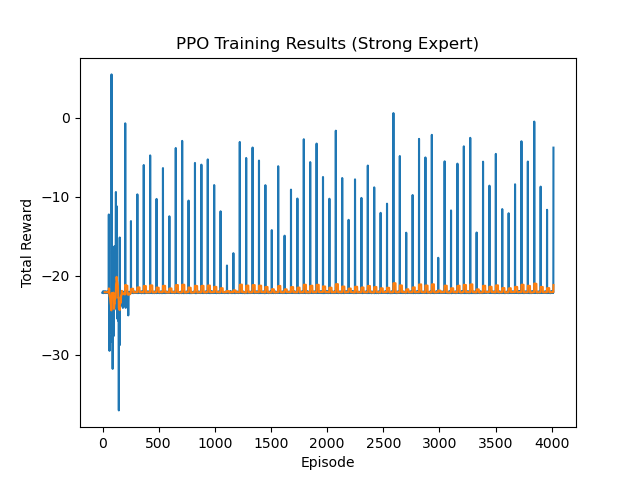
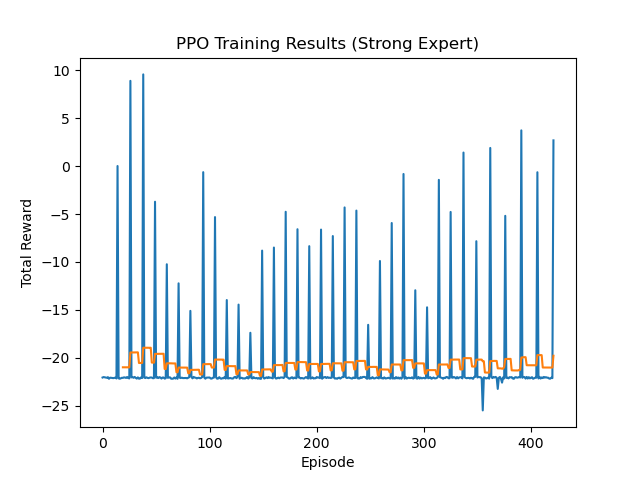
new ppo

diff --git a/ppo_praveen_style.py b/ppo_praveen_style.py
@@ -1,0 +1,253 @@
+# ppo_praveen_style.py
+
+import numpy as np
+import torch
+import torch.nn as nn
+import torch.nn.functional as F
+from torch.distributions import Beta
+from torch.utils.data.sampler import BatchSampler, SubsetRandomSampler
+
+
+class CarRacingNet(nn.Module):
+    """
+    Actor-Critic network similar in spirit to praveen's Net, but
+    adapted for 4x96x96 image input (CarRacing-v2).
+    - Input: (B, C=4, H=96, W=96)
+    - Output: (alpha, beta) for each of 3 actions + scalar value.
+    """
+
+    def __init__(self, action_dim: int = 3):
+        super().__init__()
+
+        # Simple CNN encoder – you can make this deeper if needed
+        self.conv = nn.Sequential(
+            nn.Conv2d(4, 32, kernel_size=8, stride=4),  # (32, 23, 23)
+            nn.ReLU(),
+            nn.Conv2d(32, 64, kernel_size=4, stride=2),  # (64, 10, 10)
+            nn.ReLU(),
+            nn.Conv2d(64, 64, kernel_size=3, stride=1),  # (64, 8, 8)
+            nn.ReLU(),
+        )
+
+        conv_out_dim = 64 * 8 * 8
+
+        self.fc_shared = nn.Sequential(
+            nn.Linear(conv_out_dim, 128),
+            nn.ReLU(),
+        )
+
+        # Value head
+        self.v_head = nn.Sequential(
+            nn.Linear(128, 100),
+            nn.ReLU(),
+            nn.Linear(100, 1),
+        )
+
+        # Policy head → alpha, beta for each action dim
+        self.alpha_head = nn.Sequential(
+            nn.Linear(128, 100),
+            nn.ReLU(),
+            nn.Linear(100, action_dim),
+        )
+        self.beta_head = nn.Sequential(
+            nn.Linear(128, 100),
+            nn.ReLU(),
+            nn.Linear(100, action_dim),
+        )
+
+        # Optional: initialize weights similar to their style
+        for m in self.modules():
+            if isinstance(m, nn.Linear):
+                nn.init.kaiming_normal_(m.weight, nonlinearity="relu")
+                nn.init.constant_(m.bias, 0.1)
+
+    def forward(self, obs):
+        """
+        obs: (B, 4, 96, 96) float tensor in [0,1] or similar.
+        Returns: (alpha, beta), v
+        """
+        x = self.conv(obs)
+        x = x.view(x.size(0), -1)
+        x = self.fc_shared(x)
+
+        v = self.v_head(x)
+
+        alpha = self.alpha_head(x) + 1e-4  # ensure > 0
+        beta = self.beta_head(x) + 1e-4
+
+        return (alpha, beta), v
+
+
+class PPOPraveenStyle:
+    """
+    PPO agent implementing praveen's algorithm:
+    - Beta policy in [0,1]^3
+    - Clipped surrogate objective
+    - Shared actor-critic network
+
+    NOTE:
+    - The buffer stores RAW Beta samples a_beta in [0,1]^3
+      (closer to the original implementation).
+    - We convert to env actions (steer, gas, brake) only when stepping the env.
+    """
+
+    def __init__(
+        self,
+        net: CarRacingNet,
+        device,
+        gamma=0.99,
+        clip_param=0.2,
+        ppo_epoch=4,
+        buffer_capacity=2048,
+        batch_size=256,
+        lr=1e-3,
+    ):
+        self.net = net.to(device)
+        self.device = device
+        self.gamma = gamma
+        self.clip_param = clip_param
+        self.ppo_epoch = ppo_epoch
+        self.buffer_capacity = buffer_capacity
+        self.batch_size = batch_size
+
+        # Transition buffer: (s, a_beta, logp_old, r, s_)
+        self.counter = 0
+        self.buffer = {
+            "s": np.zeros((buffer_capacity, 4, 96, 96), dtype=np.float32),
+            "a": np.zeros((buffer_capacity, 3), dtype=np.float32),   # raw Beta samples
+            "logp": np.zeros((buffer_capacity, 1), dtype=np.float32),
+            "r": np.zeros((buffer_capacity, 1), dtype=np.float32),
+            "s_": np.zeros((buffer_capacity, 4, 96, 96), dtype=np.float32),
+        }
+
+        self.optimizer = torch.optim.Adam(self.net.parameters(), lr=lr)
+        self.training_step = 0
+
+    @torch.no_grad()
+    def select_action(self, obs_np):
+        """
+        obs_np: numpy array (4,96,96) or LazyFrames
+        Returns:
+          env_action: np.array (3,) in CarRacing space (steer, gas, brake)
+          logp: float (log-prob of the Beta-sampled action)
+          a_beta: np.array (3,) raw Beta action in [0,1]^3
+        """
+        # Allow LazyFrames, etc.
+        if not isinstance(obs_np, np.ndarray):
+            obs_np = np.asarray(obs_np, dtype=np.float32)
+
+        # Make sure channels-first: (4,96,96)
+        if obs_np.shape[-1] == 4 and obs_np.shape[0] != 4:
+            obs_np = np.transpose(obs_np, (2, 0, 1))
+
+        obs = torch.from_numpy(obs_np).float().unsqueeze(0).to(self.device)
+
+        (alpha, beta), _ = self.net(obs)
+
+        # EXTRA SAFETY: clamp to strictly positive
+        alpha = torch.clamp(alpha, min=1e-4)
+        beta  = torch.clamp(beta,  min=1e-4)
+
+        dist = Beta(alpha, beta)
+        a_beta = dist.sample()                      # in [0, 1]^3
+        logp = dist.log_prob(a_beta).sum(dim=1)     # (B,)
+
+        a_beta_np = a_beta.squeeze(0).cpu().numpy()  # (3,)
+
+        # Map Beta [0,1]^3 -> CarRacing action space
+        steer = 2.0 * a_beta_np[0] - 1.0   # [-1,1]
+        gas   = a_beta_np[1]               # [0,1]
+        brake = a_beta_np[2]               # [0,1]
+        env_action = np.array([steer, gas, brake], dtype=np.float32)
+
+        return env_action, float(logp.item()), a_beta_np
+
+
+
+    def store_transition(self, s, a_beta, logp, r, s_):
+        """
+        s, s_: (4,96,96) np.float32
+        a_beta: (3,) np.float32 in [0,1]^3 (raw Beta sample)
+        logp: float (log prob of a_beta under old policy)
+        r: float (reward)
+        """
+        idx = self.counter
+        self.buffer["s"][idx] = s
+        self.buffer["a"][idx] = a_beta
+        self.buffer["logp"][idx] = logp
+        self.buffer["r"][idx] = r
+        self.buffer["s_"][idx] = s_
+
+        self.counter += 1
+
+    def _ready_to_update(self):
+        return self.counter >= self.buffer_capacity
+
+    def update(self):
+        if not self._ready_to_update():
+            return  # not enough data yet
+
+        self.training_step += 1
+        print(f"[PPO] Update step {self.training_step}")
+
+        # Convert buffer to tensors
+        s = torch.tensor(self.buffer["s"], dtype=torch.float32, device=self.device)
+        a = torch.tensor(self.buffer["a"], dtype=torch.float32, device=self.device)        # [0,1]^3
+        old_logp = torch.tensor(self.buffer["logp"], dtype=torch.float32, device=self.device)
+        r = torch.tensor(self.buffer["r"], dtype=torch.float32, device=self.device)
+        s_ = torch.tensor(self.buffer["s_"], dtype=torch.float32, device=self.device)
+
+        # Compute target value & advantage (one-step TD)
+        with torch.no_grad():
+            (_, v_s) = self.net(s)
+            (_, v_s_) = self.net(s_)
+            target_v = r + self.gamma * v_s_
+            advantage = target_v - v_s
+
+        total_loss = 0.0
+
+        for _ in range(self.ppo_epoch):
+            sampler = BatchSampler(
+                SubsetRandomSampler(range(self.buffer_capacity)),
+                self.batch_size,
+                drop_last=False,
+            )
+            for batch_idx in sampler:
+                b_idx = torch.tensor(batch_idx, device=self.device)
+
+                (alpha, beta), v = self.net(s[b_idx])
+
+                # EXTRA SAFETY: guarantee strictly positive params
+                alpha = torch.clamp(alpha, min=1e-4)
+                beta  = torch.clamp(beta,  min=1e-4)
+
+                dist = Beta(alpha, beta)
+
+                a_b = a[b_idx]  # raw Beta actions in [0,1]
+                logp = dist.log_prob(a_b).sum(dim=1, keepdim=True)
+                ratio = torch.exp(logp - old_logp[b_idx])
+
+                adv_b = advantage[b_idx]
+                target_v_b = target_v[b_idx]
+
+                surr1 = ratio * adv_b
+                surr2 = torch.clamp(
+                    ratio, 1.0 - self.clip_param, 1.0 + self.clip_param
+                ) * adv_b
+
+                actor_loss = -torch.min(surr1, surr2).mean()
+                critic_loss = F.smooth_l1_loss(v, target_v_b)
+                loss = actor_loss + 2.0 * critic_loss
+
+                self.optimizer.zero_grad()
+                loss.backward()
+                nn.utils.clip_grad_norm_(self.net.parameters(), max_norm=0.5)
+                self.optimizer.step()
+
+                total_loss += loss.item()
+
+
+        print(f"[PPO] Loss = {total_loss:.4f}")
+
+        # Reset buffer
+        self.counter = 0

diff --git a/ppo_train_praveen.py b/ppo_train_praveen.py
@@ -1,0 +1,96 @@
+# ppo_train_praveen.py
+# cite from https://github.com/praveenVnktsh/CarRacingv0-PPO-pytorch
+
+# ppo_train_praveen.py
+
+import numpy as np
+import gymnasium as gym
+from gymnasium.wrappers import GrayScaleObservation, ResizeObservation, FrameStack
+import torch
+
+from ppo_praveen_style import CarRacingNet, PPOPraveenStyle
+
+
+def make_env():
+    """
+    CarRacing-v2 env with:
+    - grayscale
+    - 96x96
+    - 4-frame stack
+    """
+    env = gym.make("CarRacing-v2", render_mode=None)
+    env = GrayScaleObservation(env, keep_dim=False)  # (96,96)
+    env = ResizeObservation(env, 96)
+    env = FrameStack(env, 4)                         # LazyFrames, shape (4,96,96)
+    return env
+
+
+def preprocess_obs(obs):
+    """
+    Convert LazyFrames / whatever into np.ndarray (4,96,96).
+    """
+    if not isinstance(obs, np.ndarray):
+        obs = np.asarray(obs, dtype=np.float32)
+
+    # If shape is (96,96,4), move channels to first dim
+    if obs.shape[-1] == 4 and obs.shape[0] != 4:
+        obs = np.transpose(obs, (2, 0, 1))
+
+    # If shape is (4,96,96) already, just ensure float32
+    obs = obs.astype(np.float32)
+    return obs
+
+
+def train():
+    device = torch.device("cuda" if torch.cuda.is_available() else "cpu")
+    env = make_env()
+
+    net = CarRacingNet(action_dim=3)
+    agent = PPOPraveenStyle(
+        net,
+        device,
+        gamma=0.99,
+        clip_param=0.2,
+        ppo_epoch=4,
+        buffer_capacity=2048,
+        batch_size=256,
+        lr=1e-3,
+    )
+
+    max_episodes = 200
+    max_steps = 800
+
+    for ep in range(max_episodes):
+        obs, _ = env.reset()
+        obs = preprocess_obs(obs)
+
+        episode_return = 0.0
+
+        for t in range(max_steps):
+            # --- use the new signature: returns env_action, logp, a_beta ---
+            env_action, logp, a_beta = agent.select_action(obs)
+
+            next_obs, reward, terminated, truncated, info = env.step(env_action)
+            done = terminated or truncated
+
+            next_obs_proc = preprocess_obs(next_obs)
+
+            # store raw Beta action (a_beta), not env_action
+            agent.store_transition(obs, a_beta, logp, reward, next_obs_proc)
+
+            obs = next_obs_proc
+            episode_return += reward
+
+            if agent._ready_to_update():
+                agent.update()
+
+            if done:
+                break
+
+        print(f"[EP {ep}] return = {episode_return:.1f}")
+
+    env.close()
+
+
+if __name__ == "__main__":
+    train()
